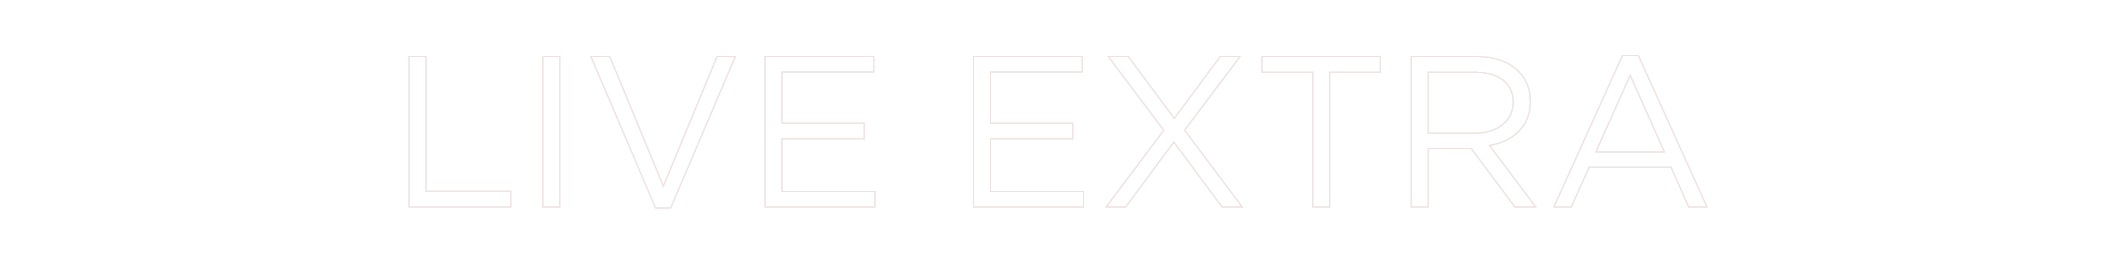
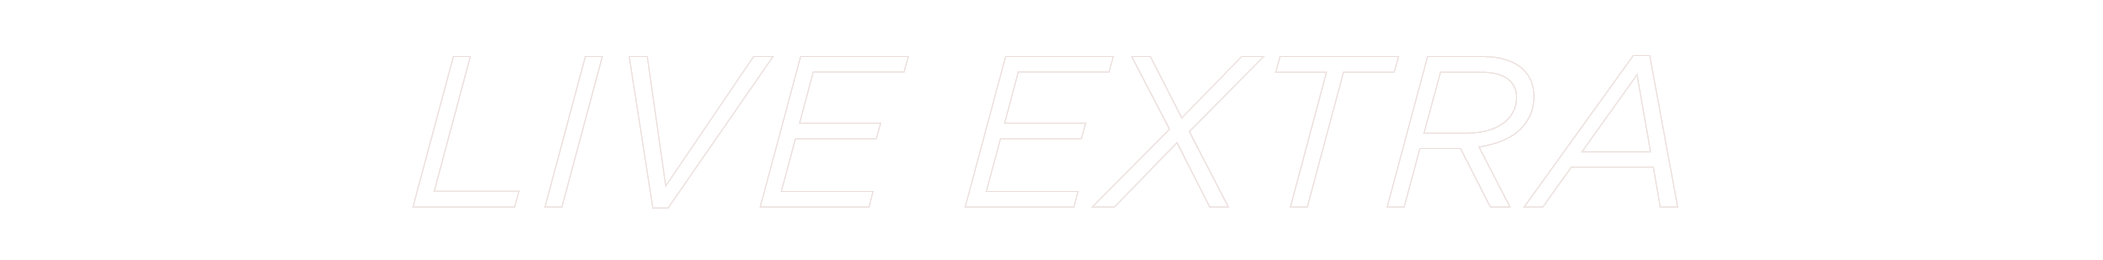
fix

diff --git a/page/the-extro/the-extro/the-extro/component/craft-your-tale/component.js b/page/the-extro/the-extro/the-extro/component/craft-your-tale/component.js
@@ -3,15 +3,15 @@ const CraftYourTaleComponent = defineComponent({
   template: `
     <section class="craft-your-tale-component relative overflow-hidden md:h-[700px] h-[600px] onview" data-section="craft_your_tales">
       <div class="bg-[url('/assets/image/page-the-extro/the-extro/bg2.png')] bg-cover h-full w-full bg-center flex">
-        <div class="m-auto lg:w-3/5 w-full md:h-[500px] h-[400px]">
-          <img class="w-full h-full object-cover panorama" src="/assets/image/page-the-extro/the-extro/_VPX5685 Panorama.png" alt="Tale Image"/>
-        </div>
-        <div class="absolute translate-x-1/4">
+        <div class="absolute translate-x-[17%]">
           <img src="/assets/image/page-the-extro/the-extro/Live EXTRA.png" class="live-extra" alt="Live Extra"/>
         </div>
         
-        <div class="absolute bottom-0 left-0 -translate-x-1/4">
+        <div class="absolute bottom-10  -translate-x-[17%]">
           <img src="/assets/image/page-the-extro/the-extro/Live-EXTRA.png" class="live-extra" alt="Live Extra"/>
+        </div>
+        <div class="m-auto lg:w-3/5 w-full md:h-[500px] h-[400px] relative">
+          <img class="w-full h-full object-cover panorama" src="/assets/image/page-the-extro/the-extro/_VPX5685 Panorama.png" alt="Tale Image"/>
         </div>
       </div>
     </section>

diff --git a/src/output.css b/src/output.css
@@ -1901,6 +1901,10 @@ video {
   top: 100%;
 }
 
+.bottom-10{
+  bottom: 2.5rem;
+}
+
 .isolate{
   isolation: isolate;
 }
@@ -2986,6 +2990,21 @@ video {
 
 .translate-x-1\/4{
   --tw-translate-x: 25%;
+  transform: translate(var(--tw-translate-x), var(--tw-translate-y)) rotate(var(--tw-rotate)) skewX(var(--tw-skew-x)) skewY(var(--tw-skew-y)) scaleX(var(--tw-scale-x)) scaleY(var(--tw-scale-y));
+}
+
+.translate-x-\[15\%\]{
+  --tw-translate-x: 15%;
+  transform: translate(var(--tw-translate-x), var(--tw-translate-y)) rotate(var(--tw-rotate)) skewX(var(--tw-skew-x)) skewY(var(--tw-skew-y)) scaleX(var(--tw-scale-x)) scaleY(var(--tw-scale-y));
+}
+
+.translate-x-\[17\%\]{
+  --tw-translate-x: 17%;
+  transform: translate(var(--tw-translate-x), var(--tw-translate-y)) rotate(var(--tw-rotate)) skewX(var(--tw-skew-x)) skewY(var(--tw-skew-y)) scaleX(var(--tw-scale-x)) scaleY(var(--tw-scale-y));
+}
+
+.-translate-x-\[17\%\]{
+  --tw-translate-x: -17%;
   transform: translate(var(--tw-translate-x), var(--tw-translate-y)) rotate(var(--tw-rotate)) skewX(var(--tw-skew-x)) skewY(var(--tw-skew-y)) scaleX(var(--tw-scale-x)) scaleY(var(--tw-scale-y));
 }
 
